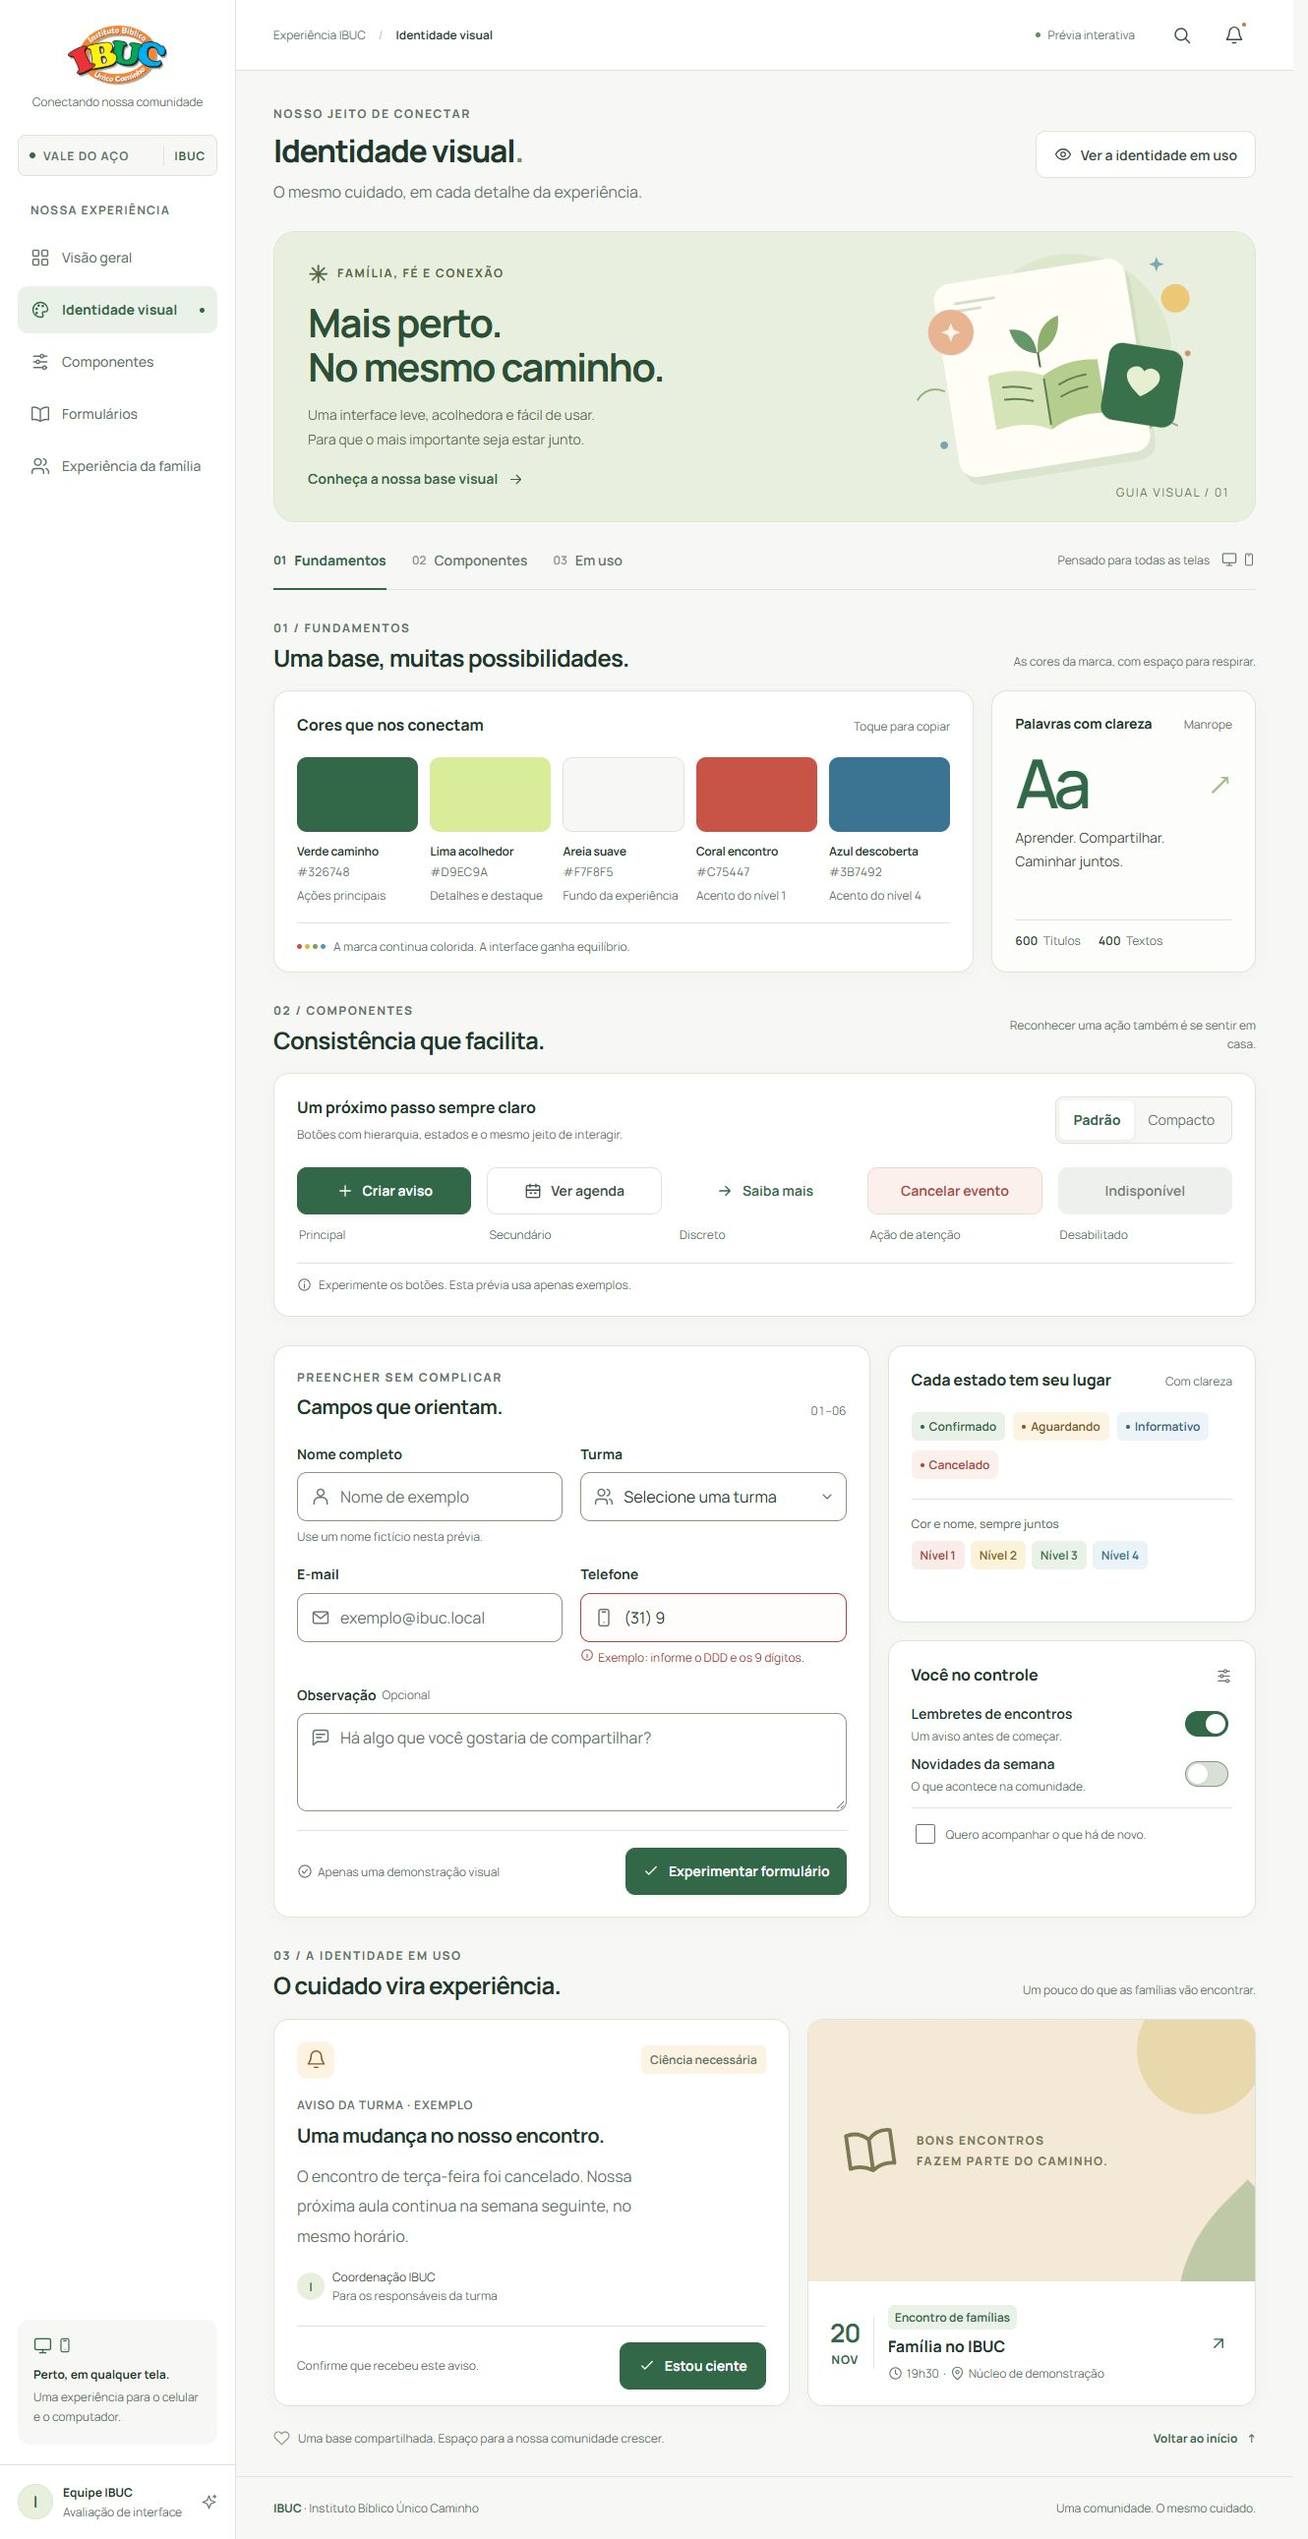
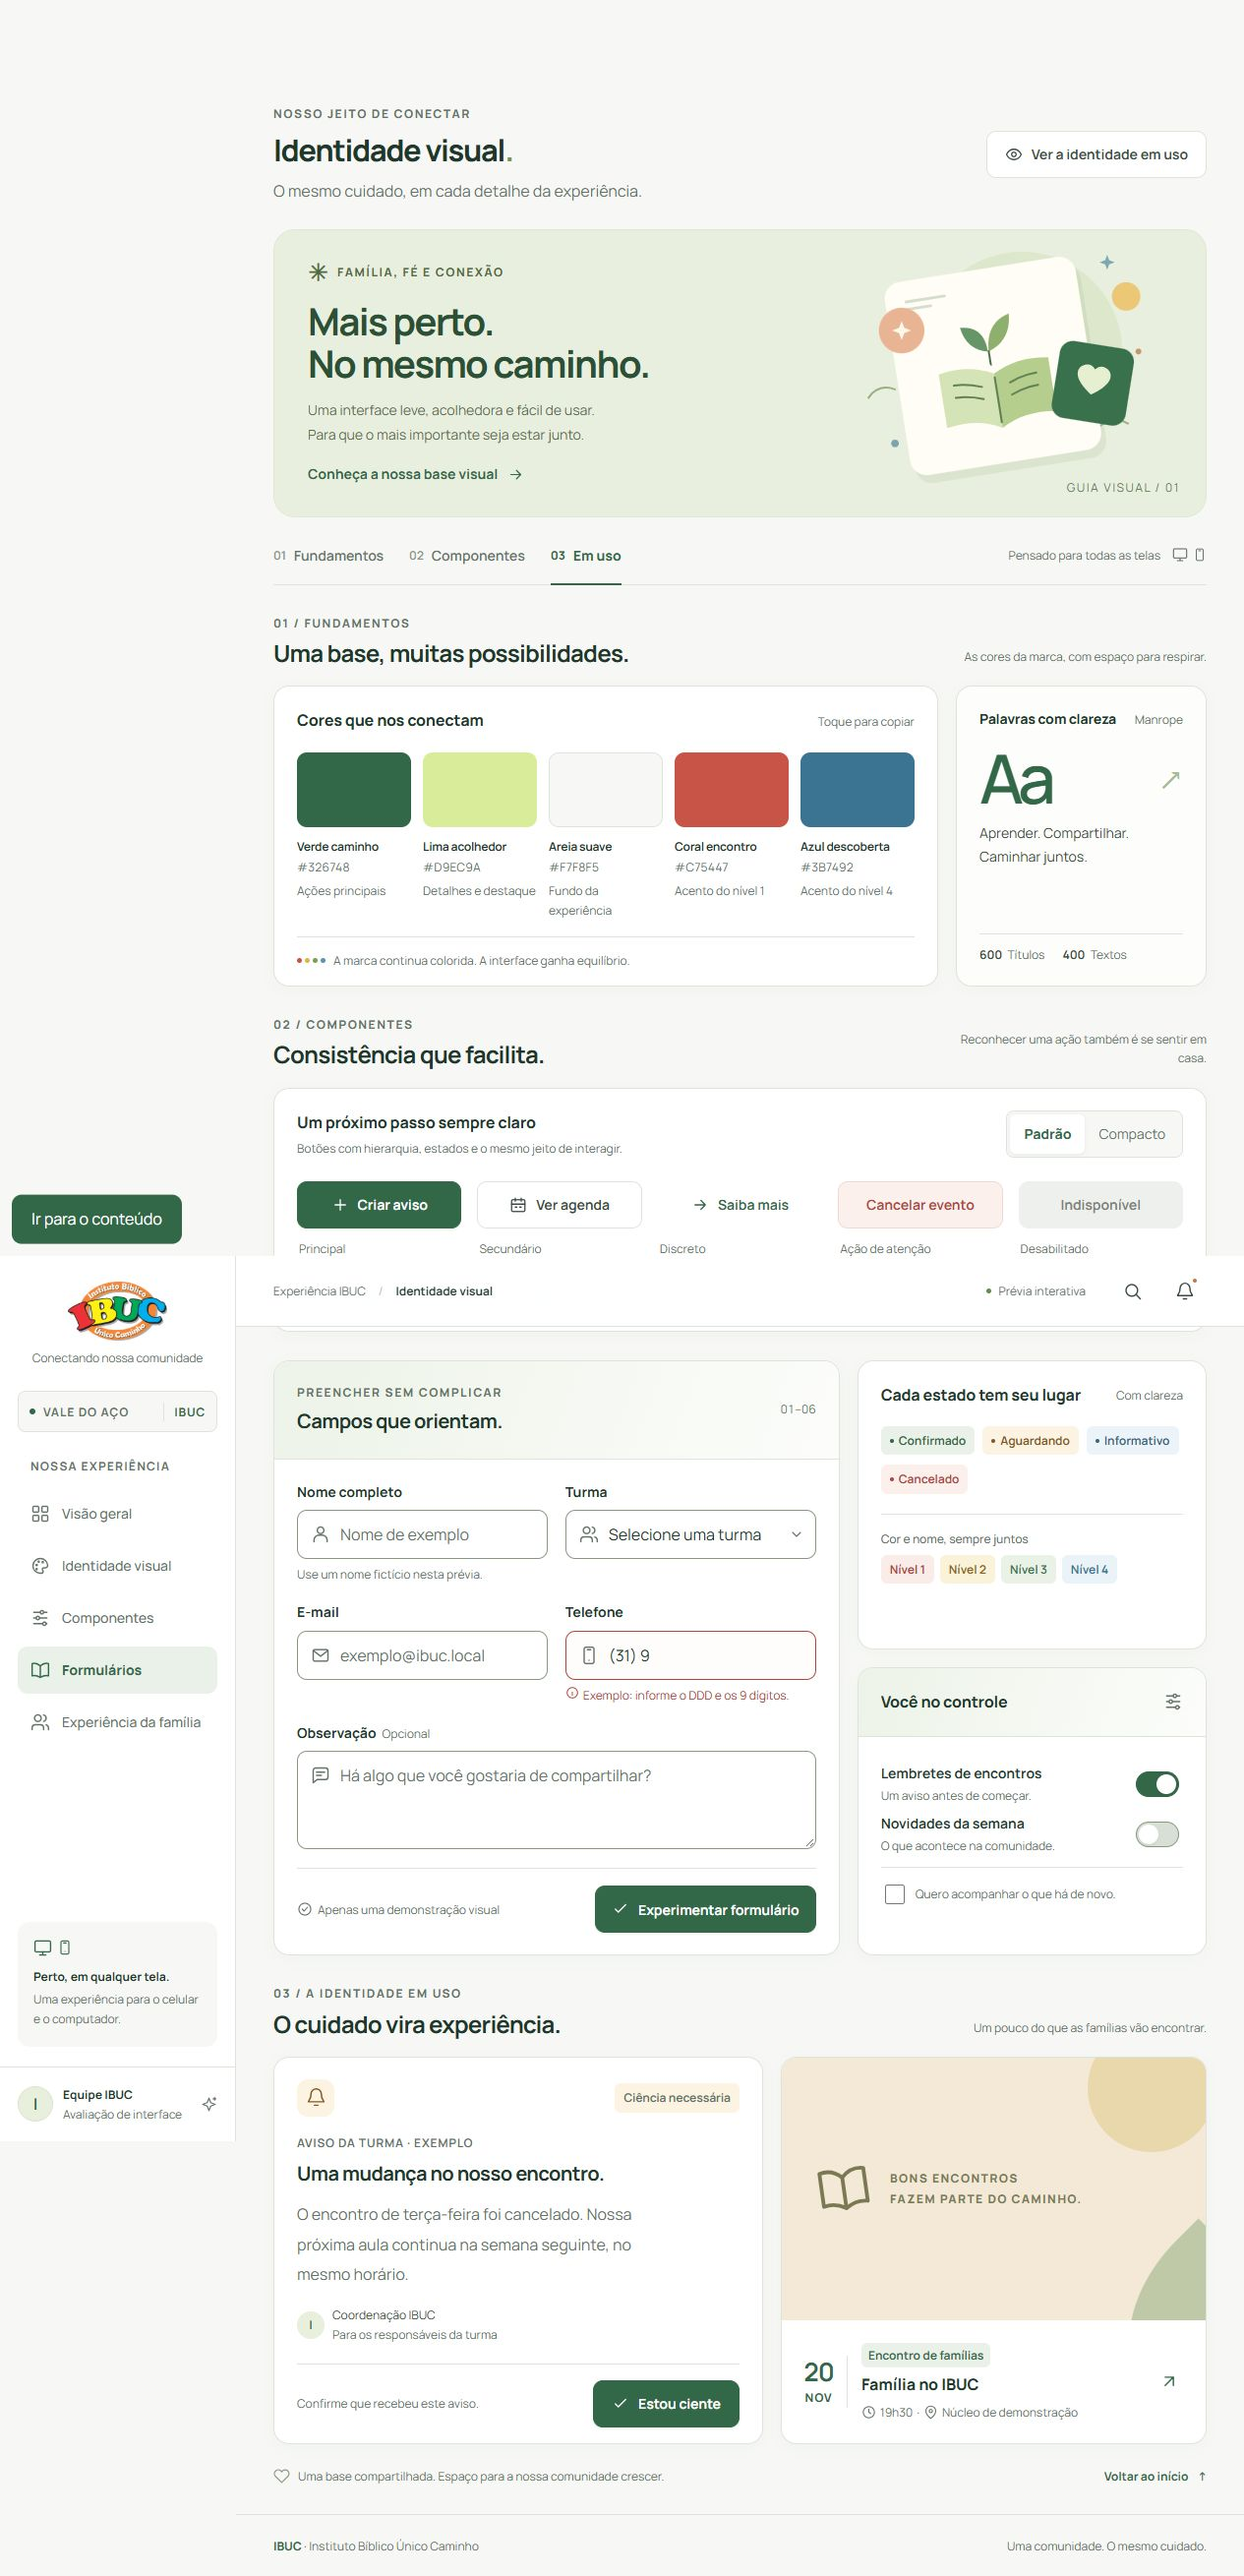
feat: testa gradiente suave nos cabeçalhos de formulários

diff --git a/sistema/resources/css/components.css b/sistema/resources/css/components.css
@@ -14,11 +14,12 @@
 .button--lg { min-height: 52px; padding: 14px 24px; font-size: var(--font-size-base); }
 .text-link { display: inline-flex; align-items: center; gap: 10px; font-size: var(--font-size-sm); color: var(--color-primary); font-weight: 700; }
 .text-link:hover { text-decoration: underline; text-underline-offset: 4px; }
-.panel { background: var(--color-surface); border: 1px solid var(--color-border); border-radius: var(--radius-card); box-shadow: var(--shadow-card); padding: 22px 23px; min-width: 0; }
+.panel { --panel-padding-block: 22px; --panel-padding-inline: 23px; background: var(--color-surface); border: 1px solid var(--color-border); border-radius: var(--radius-card); box-shadow: var(--shadow-card); padding: var(--panel-padding-block) var(--panel-padding-inline); min-width: 0; }
 .panel-heading { display: flex; align-items: center; justify-content: space-between; gap: 14px; margin-bottom: 19px; }
 .panel-heading h3 { font-size: var(--font-size-base); font-weight: 750; letter-spacing: -.15px; }
 .panel-heading > span { font-size: var(--font-size-caption); color: var(--color-muted); }
 .panel-heading p { font-size: var(--font-size-caption); color: var(--color-muted); margin-top: 4px; }
+.form-heading { background: var(--gradient-form-header); border-bottom: 1px solid var(--color-border); border-radius: calc(var(--radius-card) - 1px) calc(var(--radius-card) - 1px) 0 0; margin: calc(-1 * var(--panel-padding-block)) calc(-1 * var(--panel-padding-inline)) 22px; padding: var(--panel-padding-block) var(--panel-padding-inline); }
 .field { min-width: 0; }
 .field__label { display: flex; align-items: center; gap: 6px; margin-bottom: 7px; color: var(--color-ink); font-size: var(--font-size-label); font-weight: 700; }
 .field__label > span { color: var(--color-muted); font-size: var(--font-size-caption); font-weight: 400; }

diff --git a/sistema/resources/css/showcase.css b/sistema/resources/css/showcase.css
@@ -62,7 +62,6 @@ h1 { font-size: clamp(26px, 2.4vw, 36px); font-weight: 750; line-height: 1.35; l
 .button-specimens > div > span { font-size: var(--font-size-caption); color: var(--color-muted); padding-left: 2px; }
 .buttons-panel__note { margin-top: 19px; border-top: 1px solid var(--color-border); padding-top: 12px; display: flex; align-items: center; gap: 7px; font-size: var(--font-size-caption); color: var(--color-muted); }
 .form-state-grid { display: grid; grid-template-columns: 1.62fr 1fr; gap: 18px; align-items: stretch; }
-.form-panel .panel-heading { margin-bottom: 21px; align-items: end; }
 .form-panel h3 { font-size: var(--font-size-lg); font-weight: 700; letter-spacing: -.5px; }
 .form-panel .eyebrow { font-size: var(--font-size-caption); margin-bottom: 4px; }
 .mini-index { font-variant-numeric: tabular-nums; font-size: var(--font-size-caption); padding-bottom: 2px; white-space: nowrap; flex-shrink: 0; }
@@ -79,7 +78,6 @@ h1 { font-size: clamp(26px, 2.4vw, 36px); font-weight: 750; line-height: 1.35; l
 .level-samples .field__label { font-size: var(--font-size-caption); color: var(--color-muted); font-weight: 500; }
 .level-samples > div { display: flex; flex-wrap: wrap; gap: 6px; }
 .preferences-panel { flex: 1; }
-.preferences-panel .panel-heading { margin-bottom: 11px; }
 .preferences-panel .panel-heading > .icon { color: var(--color-muted); }
 .experience-grid { display: grid; grid-template-columns: 1.15fr 1fr; gap: 18px; }
 .notice-card { padding: 22px 23px 0; }

diff --git a/sistema/resources/css/responsive.css b/sistema/resources/css/responsive.css
@@ -2,7 +2,7 @@
     .main { padding-top: 40px; }
     .hero { min-height: 275px; }
     .hero__art { width: 400px; height: 295px; right: 65px; }
-    .panel { padding: 24px 26px; }
+    .panel { --panel-padding-block: 24px; --panel-padding-inline: 26px; padding: var(--panel-padding-block) var(--panel-padding-inline); }
     .swatch__color { height: 95px; }
     .swatch strong { font-size: var(--font-size-caption); }
     .swatch small, .swatch code { font-size: var(--font-size-caption); }
@@ -19,7 +19,7 @@
     .hero p { max-width: 270px; }
     .hero p br { display: none; }
     .foundation-grid { grid-template-columns: 2.3fr 1fr; gap: 14px; }
-    .panel { padding-inline: 19px; }
+    .panel { --panel-padding-inline: 19px; padding-inline: var(--panel-padding-inline); }
     .swatches { gap: 8px; }
     .swatch__color { height: 68px; }
     .swatch strong { font-size: var(--font-size-caption); }
@@ -93,7 +93,7 @@
     .section-heading > p { text-align: left; max-width: none; font-size: var(--font-size-caption); margin-top: 7px; }
     .guide-section { margin-bottom: 24px; }
     .foundation-grid { grid-template-columns: 1fr; gap: 14px; }
-    .panel { padding: 20px; }
+    .panel { --panel-padding-block: 20px; --panel-padding-inline: 20px; padding: var(--panel-padding-block) var(--panel-padding-inline); }
     .panel-heading { margin-bottom: 17px; }
     .panel-heading h3 { font-size: var(--font-size-base); }
     .panel-heading > span { font-size: var(--font-size-caption); }

diff --git a/sistema/resources/css/tokens.css b/sistema/resources/css/tokens.css
@@ -13,6 +13,9 @@
     --color-canvas: #f7f8f5;
     --color-surface: #ffffff;
     --color-surface-subtle: #f1f4ef;
+    --color-form-header-start: #edf3e8;
+    --color-form-header-end: #fcfdfb;
+    --gradient-form-header: linear-gradient(110deg, var(--color-form-header-start), var(--color-form-header-end));
     --color-ink: #20372c;
     --color-text: #394b41;
     --color-muted: #647268;

diff --git a/sistema/resources/views/design-system.blade.php b/sistema/resources/views/design-system.blade.php
@@ -71,7 +71,7 @@
 
     <section id="formularios" class="form-state-grid guide-section" aria-label="Campos, estados e opções">
         <article class="panel form-panel">
-            <div class="panel-heading"><div><span class="eyebrow">PREENCHER SEM COMPLICAR</span><h3>Campos que orientam.</h3></div><span class="mini-index">01–06</span></div>
+            <x-ui.form-header title="Campos que orientam." eyebrow="PREENCHER SEM COMPLICAR"><span class="mini-index">01–06</span></x-ui.form-header>
             <form id="preview-form" novalidate>
                 <div class="form-grid">
                     <x-ui.input name="name" label="Nome completo" placeholder="Nome de exemplo" autocomplete="off" hint="Use um nome fictício nesta prévia." required minlength="2" />
@@ -95,7 +95,7 @@
                 <div class="badge-samples"><x-ui.badge tone="success" dot>Confirmado</x-ui.badge><x-ui.badge tone="warning" dot>Aguardando</x-ui.badge><x-ui.badge tone="info" dot>Informativo</x-ui.badge><x-ui.badge tone="danger" dot>Cancelado</x-ui.badge></div>
                 <div class="level-samples"><span class="field__label">Cor e nome, sempre juntos</span><div><x-ui.badge tone="level-1">Nível 1</x-ui.badge><x-ui.badge tone="level-2">Nível 2</x-ui.badge><x-ui.badge tone="level-3">Nível 3</x-ui.badge><x-ui.badge tone="level-4">Nível 4</x-ui.badge></div></div>
             </article>
-            <article class="panel preferences-panel"><div class="panel-heading"><h3>Você no controle</h3><x-ui.icon name="sliders" :size="17" /></div>
+            <article class="panel preferences-panel"><x-ui.form-header title="Você no controle" icon="sliders" />
                 <x-ui.switch name="event-alert" label="Lembretes de encontros" hint="Um aviso antes de começar." checked />
                 <x-ui.switch name="weekly-news" label="Novidades da semana" hint="O que acontece na comunidade." />
                 <label class="checkbox-label"><input type="checkbox" name="demo-check"><span>Quero acompanhar o que há de novo.</span></label>

diff --git a/sistema/resources/views/components/ui/form-header.blade.php b/sistema/resources/views/components/ui/form-header.blade.php
@@ -1,0 +1,9 @@
+@props(['title', 'eyebrow' => null, 'icon' => null])
+<header {{ $attributes->class(['panel-heading', 'form-heading']) }}>
+    <div>
+        @if($eyebrow)<span class="eyebrow">{{ $eyebrow }}</span>@endif
+        <h3>{{ $title }}</h3>
+    </div>
+    @if($icon)<x-ui.icon :name="$icon" :size="20" />@endif
+    {{ $slot }}
+</header>

diff --git a/IMPLEMENTACAO.md b/IMPLEMENTACAO.md
@@ -251,6 +251,7 @@ Acrescente uma linha ao concluir trabalho relevante. Uma nova entrada preserva a
 | 14/11/2026 | F0 / T04 | Em validação | Ícones passam a ser padrão nos campos, conforme orientação do usuário. Resolução por tipo/nome compartilhada entre input, select e textarea; escolha explícita e exceção disponíveis. Guia e AGENTS.md atualizados. | Build, compilação Blade e teste HTTP concluídos. No navegador, os cinco campos da prévia exibem ícones com espaçamento reservado e rótulos preservados. | Manter esse padrão nas próximas telas e avaliar a proposta visual. |
 | 14/11/2026 | Projeto / compartilhamento | Publicado | Primeira versão pública no GitHub a pedido do usuário: documentação de instalação, capturas, código, plano e backlog. Versionamento na branch main. | Repositório público, branch e commit remoto conferidos; os 88 arquivos publicados não incluem ambiente local, credenciais, dependências, caches ou banco. | Repositório: https://github.com/matheuswilliam95/ibuc-sistema. A publicação do código não equivale à conclusão das fases nem à hospedagem PHP. |
 | 14/11/2026 | F0 / T04 | Em validação | Revisão solicitada de tamanhos: texto e campos em 16 px, rótulos e botões em 14 px, apoio mínimo de 12 px. Altura dos controles ampliada, grades reorganizadas e capturas atualizadas. | Build concluído; conferência visual em computador e celular, com medidas em 320, 390 e 768 px. Nenhum texto visível abaixo de 12 px na inspeção; botão compacto com 44 px, sem reduzir a fonte. | Avaliar a leitura com o usuário e manter a escala nas próximas telas. |
+| 14/11/2026 | F0 / T04 | Em validação | Teste solicitado de gradiente suave no cabeçalho dos formulários. Componente compartilhado x-ui.form-header aplicado ao formulário e às preferências, com verde muito claro, divisória e cantos arredondados. | Build e testes HTTP passaram. Em 320, 390, 768 e 1280 px, o cabeçalho acompanha as bordas do painel e não provoca rolagem horizontal. Capturas atualizadas. | Avaliar com o usuário a intensidade do gradiente. |
 
 **Para iniciar uma sessão:**
 

diff --git a/docs/identidade-visual/GUIA.md b/docs/identidade-visual/GUIA.md
@@ -70,6 +70,7 @@ Os componentes Blade ficam em `sistema/resources/views/components/ui/`:
 | `x-ui.switch` | `name`, `label`, `hint`; aceita `checked` e `disabled` |
 | `x-ui.badge` | `tone`: neutral, success, warning, danger, info, level-1 a level-4; `dot` ou `icon` |
 | `x-ui.alert` | `tone`, `title` e explicação no slot |
+| `x-ui.form-header` | `title`, `eyebrow`, `icon` e conteúdo complementar no slot |
 | `x-ui.icon` | `name` e `size`; sem significado acessível próprio quando acompanha texto |
 
 ```blade
@@ -91,6 +92,19 @@ Os componentes Blade ficam em `sistema/resources/views/components/ui/`:
 ```
 
 O componente de campo associa rótulo, orientação e erro ao controle. Os atributos adicionais passam para o elemento correspondente; por exemplo, `wire:model` pode ser usado na futura integração com Livewire. O componente visual não concede acesso nem implementa validação no servidor.
+
+### Cabeçalho suave para formulários
+
+O componente `x-ui.form-header` está em avaliação no formulário e no bloco de preferências. Ele cria uma faixa verde muito clara que clareia em direção à direita, com uma divisória fina antes dos campos. O gradiente é definido pelo token `--gradient-form-header`, de `#EDF3E8` a `#FCFDFB`.
+
+Use-o como primeiro elemento dentro de um `.panel`. Os recuos acompanham o painel no computador e no celular, e os cantos superiores conservam o mesmo arredondamento.
+
+```blade
+<article class="panel">
+    <x-ui.form-header title="Dados do responsável" eyebrow="CADASTRO" icon="user" />
+    {{-- Campos do formulário --}}
+</article>
+```
 
 ### Ícones nos campos como padrão
 
